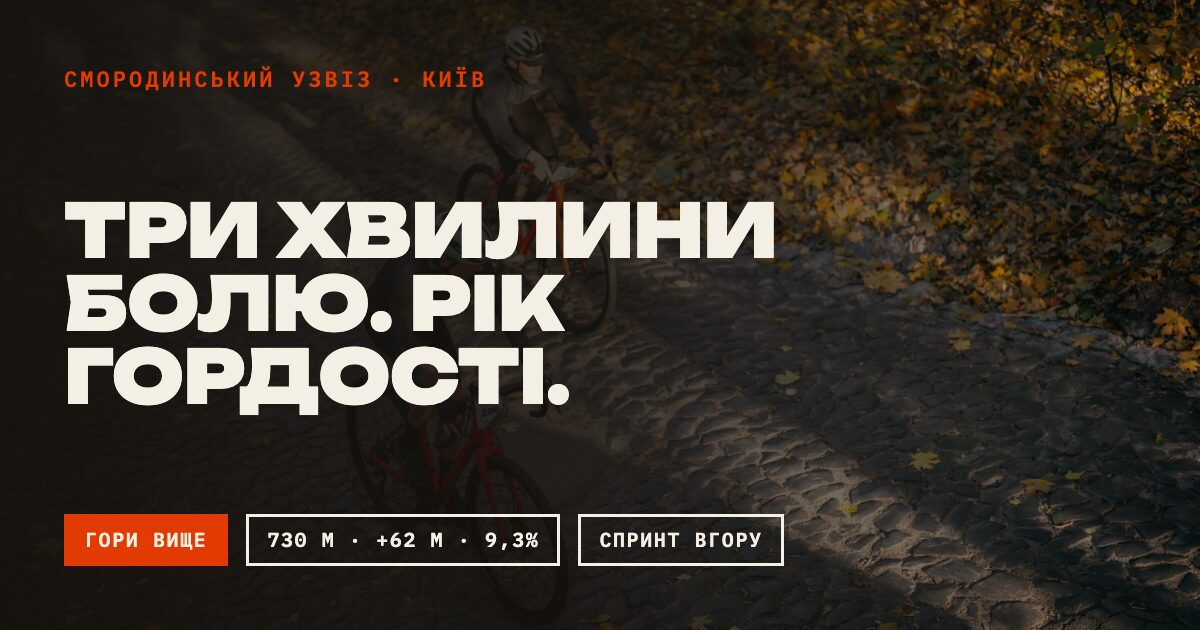
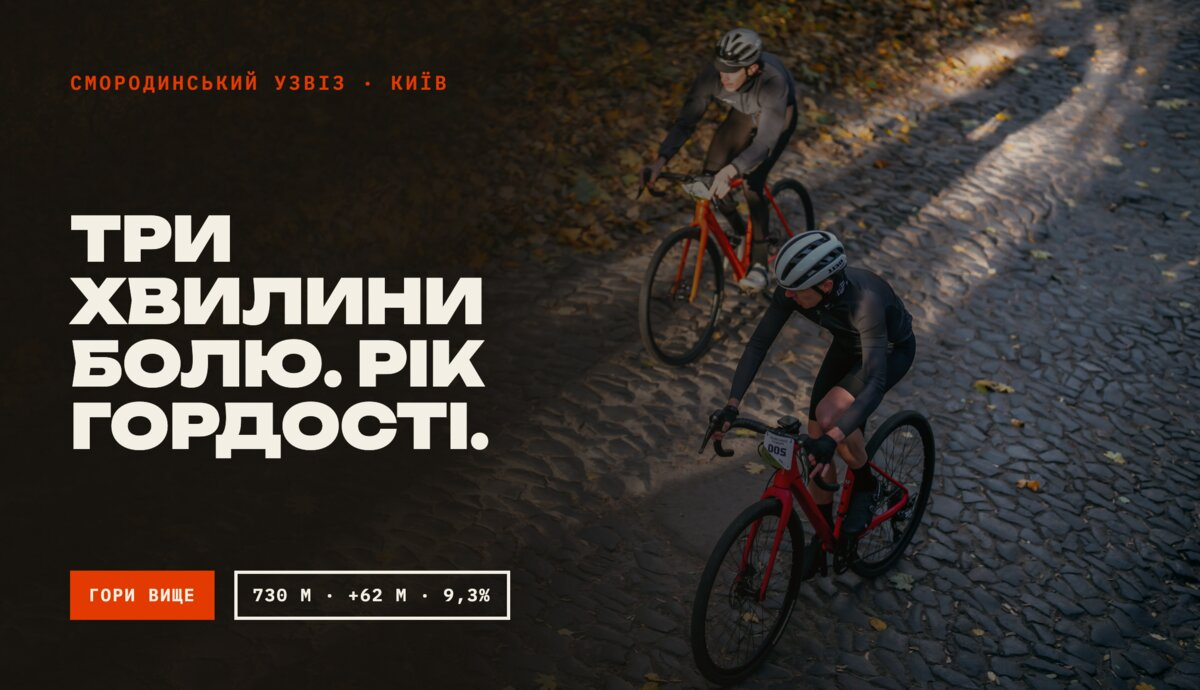
update OG; fix description

diff --git a/index.html b/index.html
@@ -5,24 +5,24 @@
 <meta name="viewport" content="width=device-width, initial-scale=1">
 <meta name="color-scheme" content="light">
 <title>Гори Вище — Спринт вгору Смородинським узвозом</title>
-<meta name="description" content="Велоспринт вгору Смородинським узвозом — найкрутішим бруківочним підйомом Ужгорода.">
+<meta name="description" content="Велоспринт вгору Смородинським узвозом — історичним бруківочним підйомом до Татарки в Києві.">
 <link rel="icon" href="assets/icon.svg?v=3" type="image/svg+xml">
 <link rel="icon" href="assets/favicon.ico?v=3" sizes="any">
 <link rel="apple-touch-icon" href="assets/apple-touch-icon.png?v=3">
 <link rel="manifest" href="assets/site.webmanifest">
 <meta name="theme-color" content="#17130E">
 <meta property="og:type" content="website">
-<meta property="og:url" content="http://uzviz.pp.ua/">
+<meta property="og:url" content="https://uzviz.pp.ua/">
 <meta property="og:title" content="Гори Вище — Спринт вгору Смородинським узвозом">
-<meta property="og:description" content="Велоспринт вгору Смородинським узвозом — найкрутішим бруківочним підйомом Ужгорода.">
-<meta property="og:image" content="http://uzviz.pp.ua/assets/og-image.jpg">
+<meta property="og:description" content="Велоспринт вгору Смородинським узвозом — історичним бруківочним підйомом до Татарки в Києві.">
+<meta property="og:image" content="https://uzviz.pp.ua/assets/og-image.jpg?v=3">
 <meta property="og:image:width" content="1200">
-<meta property="og:image:height" content="630">
+<meta property="og:image:height" content="690">
 <meta property="og:locale" content="uk_UA">
 <meta name="twitter:card" content="summary_large_image">
 <meta name="twitter:title" content="Гори Вище — Спринт вгору Смородинським узвозом">
-<meta name="twitter:description" content="Велоспринт вгору Смородинським узвозом — найкрутішим бруківочним підйомом Ужгорода.">
-<meta name="twitter:image" content="http://uzviz.pp.ua/assets/og-image.jpg">
+<meta name="twitter:description" content="Велоспринт вгору Смородинським узвозом — історичним бруківочним підйомом до Татарки в Києві.">
+<meta name="twitter:image" content="https://uzviz.pp.ua/assets/og-image.jpg?v=3">
 <link rel="preconnect" href="https://fonts.googleapis.com">
 <link rel="preconnect" href="https://fonts.gstatic.com" crossorigin>
 <link rel="stylesheet" href="css/style.css?v=3">

diff --git a/CLAUDE.md b/CLAUDE.md
@@ -40,6 +40,8 @@ When adding a photo to `GALLERY_IMAGES`, generate all four files. Filenames map 
 
 Favicons/OG assets live in `assets/` (`favicon.ico`, `apple-touch-icon.png`, `icon-192x192.png`, `icon-512x512.png`, `icon.svg`, `og-image.jpg`, `site.webmanifest`) and are generated from `assets/icon.svg` and the source OG image.
 
+Always use `https://` for absolute URLs (canonical/OG/Twitter tags, links) — never `http://`. Social-share debuggers and browsers prefer HTTPS.
+
 ## Cache-busting: bump the version when committing asset changes
 
-`index.html` loads `css/style.css`, `js/main.js`, and the icons with a `?v=N` query string. **Bump `N` only when the CSS/JS/icon changes are committed**, not on every local edit — a single bump per commit is enough, since only what ships to Cloudflare Pages needs cache-busting. This forces browsers — which cache these aggressively, favicons especially — to refetch. Keep the version numbers in sync across all asset references so a single bump refreshes everything.
+`index.html` loads `css/style.css`, `js/main.js`, the icons, and OG image with a `?v=N` query string. **Bump `N` only when the CSS/JS/icon changes are committed**, not on every local edit — a single bump per commit is enough, since only what ships to Cloudflare Pages needs cache-busting. This forces browsers — which cache these aggressively, favicons especially — to refetch. Keep the version numbers in sync across all asset references so a single bump refreshes everything.
